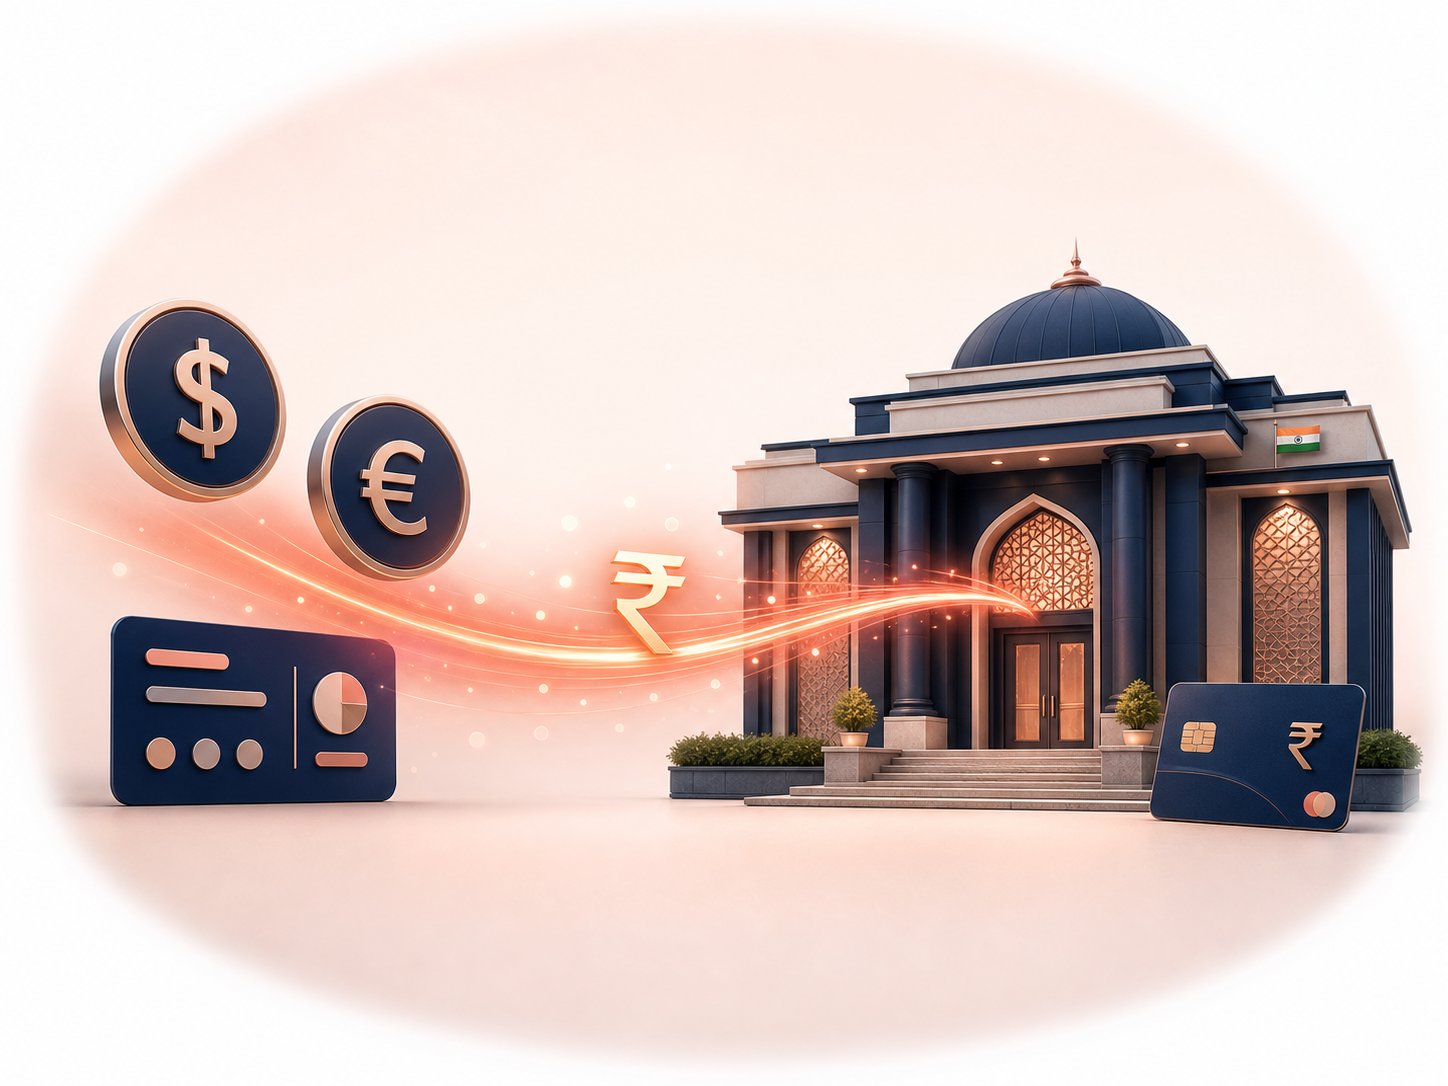
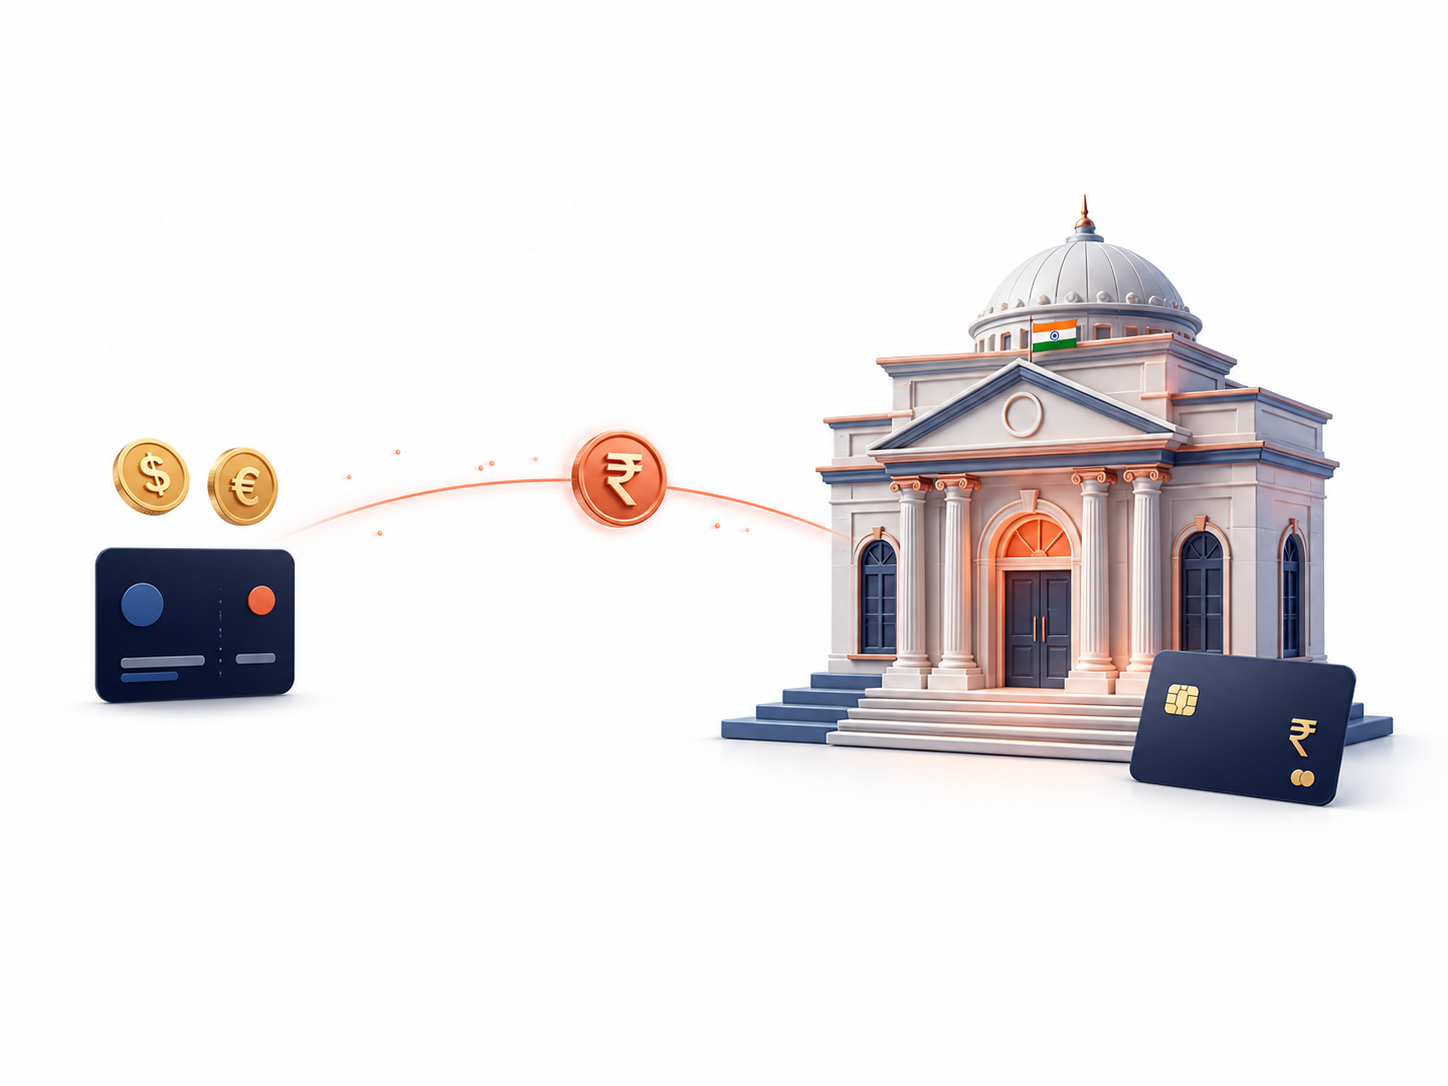
Landings hero: новые картинки на чистом белом фоне (elegant/light стилизация) + убрал маску — края нет совсем

diff --git a/usd-account-non-us-residents/index.html b/usd-account-non-us-residents/index.html
@@ -45,7 +45,7 @@
   <div class="nav-scrim" data-nav-scrim aria-hidden="true"></div>
   <main id="main-content">
 <svg class="svg-sprite" aria-hidden="true" focusable="false"><symbol id="lp-flag-us" viewBox="0 0 60 40"><rect width="60" height="40" rx="4" fill="#fff"/><path fill="#d92d3f" d="M0 0h60v4H0zm0 8h60v4H0zm0 8h60v4H0zm0 8h60v4H0zm0 8h60v4H0z"/><path fill="#22447b" d="M0 0h27v22H0z"/></symbol></svg>
-<section class="hero lp-hero" id="top"><div class="hero-orb hero-orb-one" aria-hidden="true"></div><div class="hero-orb hero-orb-two" aria-hidden="true"></div><div class="container hero-grid"><div class="hero-copy"><p class="eyebrow hero-eyebrow"><span aria-hidden="true"></span> Personal USD payment details</p><h1>Get personal USD payment details without living in the US</h1><p class="hero-lead">Receive eligible salary and personal transfers through ACH or Fedwire using USD payment details issued in your verified name.</p><div class="hero-actions"><a class="button button-primary" href="/register.html" data-register data-cta="primary" data-pos="hero">Get account details <span aria-hidden="true">&rarr;</span></a><a class="button button-secondary" href="#how-it-works" data-cta="secondary"><span class="play-icon" aria-hidden="true">&#9654;</span> See how it works</a></div><ul class="lp-chips" aria-label="Key benefits"><li><span aria-hidden="true">&#10003;</span> ACH &amp; Fedwire</li><li><span aria-hidden="true">&#10003;</span> Details in your name</li><li><span aria-hidden="true">&#10003;</span> No opening or monthly fee</li></ul></div><div class="hero-visual lp-hero-visual"><img src="/assets/hero-lp-usd.png?v=1" class="lp-hero-img" alt="Personal USD payment details funded by incoming payments from around the world" width="1448" height="1086" fetchpriority="high" decoding="async"></div></div></section>
+<section class="hero lp-hero" id="top"><div class="hero-orb hero-orb-one" aria-hidden="true"></div><div class="hero-orb hero-orb-two" aria-hidden="true"></div><div class="container hero-grid"><div class="hero-copy"><p class="eyebrow hero-eyebrow"><span aria-hidden="true"></span> Personal USD payment details</p><h1>Get personal USD payment details without living in the US</h1><p class="hero-lead">Receive eligible salary and personal transfers through ACH or Fedwire using USD payment details issued in your verified name.</p><div class="hero-actions"><a class="button button-primary" href="/register.html" data-register data-cta="primary" data-pos="hero">Get account details <span aria-hidden="true">&rarr;</span></a><a class="button button-secondary" href="#how-it-works" data-cta="secondary"><span class="play-icon" aria-hidden="true">&#9654;</span> See how it works</a></div><ul class="lp-chips" aria-label="Key benefits"><li><span aria-hidden="true">&#10003;</span> ACH &amp; Fedwire</li><li><span aria-hidden="true">&#10003;</span> Details in your name</li><li><span aria-hidden="true">&#10003;</span> No opening or monthly fee</li></ul></div><div class="hero-visual lp-hero-visual"><img src="/assets/hero-lp-usd.png?v=2" class="lp-hero-img" alt="Personal USD payment details funded by incoming payments from around the world" width="1448" height="1086" fetchpriority="high" decoding="async"></div></div></section>
 
 <section class="section section-soft"><div class="container"><div class="section-heading" data-reveal><p class="eyebrow">Built for getting paid</p><h2>USD details built for getting paid abroad</h2></div><div class="lp-benefit-grid"><article data-reveal style="--delay: 0ms"><span class="lp-b-ic" aria-hidden="true"><svg viewBox="0 0 24 24" aria-hidden="true"><path d="M12 3v11m0 0 4-4m-4 4-4-4M5 19h14"/></svg></span><span class="lp-b-num" aria-hidden="true">01</span><h3>Receive through ACH or Fedwire</h3><p>Use the USD details shown in your PayerPay account for eligible incoming payments.</p></article><article data-reveal style="--delay: 70ms"><span class="lp-b-ic" aria-hidden="true"><svg viewBox="0 0 24 24" aria-hidden="true"><rect x="3" y="5" width="18" height="14" rx="2.5"/><circle cx="8.5" cy="11" r="2"/><path d="M5.8 16c.5-1.3 1.5-2 2.7-2s2.2.7 2.7 2M14 10.5h4M14 13.5h3"/></svg></span><span class="lp-b-num" aria-hidden="true">02</span><h3>Details issued in your name</h3><p>Your verified account holder name is included with the payment details provided after approval.</p></article><article data-reveal style="--delay: 140ms"><span class="lp-b-ic" aria-hidden="true"><svg viewBox="0 0 24 24" aria-hidden="true"><path d="M4 4h6.6a2 2 0 0 1 1.4.6l7.4 7.4a2 2 0 0 1 0 2.8l-4.6 4.6a2 2 0 0 1-2.8 0L4.6 12A2 2 0 0 1 4 10.6V4Z"/><circle cx="8.6" cy="8.6" r="1.3"/></svg></span><span class="lp-b-num" aria-hidden="true">03</span><h3>No opening or monthly fee</h3><p>There is no opening or monthly maintenance fee for personal USD payment details.</p></article><article data-reveal style="--delay: 210ms"><span class="lp-b-ic" aria-hidden="true"><svg viewBox="0 0 24 24" aria-hidden="true"><path d="m12 3 9 5-9 5-9-5 9-5Zm-9 9 9 5 9-5m-18 4 9 5 9-5"/></svg></span><span class="lp-b-num" aria-hidden="true">04</span><h3>Manage onward payments from one account</h3><p>After funds arrive, use your PayerPay balance for supported transfers and currency exchange.</p></article></div></div></section>
 

diff --git a/send-money-to-philippines/index.html b/send-money-to-philippines/index.html
@@ -45,7 +45,7 @@
   <div class="nav-scrim" data-nav-scrim aria-hidden="true"></div>
   <main id="main-content">
 
-<section class="hero lp-hero" id="top"><div class="hero-orb hero-orb-one" aria-hidden="true"></div><div class="hero-orb hero-orb-two" aria-hidden="true"></div><div class="container hero-grid"><div class="hero-copy"><p class="eyebrow hero-eyebrow"><span aria-hidden="true"></span> Philippines &middot; PHP</p><h1>Send money to the Philippines via GCash or local bank transfer</h1><p class="hero-lead">Receive eligible payments in USD or EUR, convert to PHP, and send funds to a supported GCash wallet or local bank account in the Philippines.</p><div class="hero-actions"><a class="button button-primary" href="/register.html" data-register data-cta="primary" data-pos="hero">Get account details <span aria-hidden="true">&rarr;</span></a><a class="button button-secondary" href="#how-it-works" data-cta="secondary"><span class="play-icon" aria-hidden="true">&#9654;</span> See how it works</a></div><ul class="lp-chips" aria-label="Key benefits"><li><span aria-hidden="true">&#10003;</span> USD or EUR funding</li><li><span aria-hidden="true">&#10003;</span> GCash or local bank transfer</li><li><span aria-hidden="true">&#10003;</span> Rate &amp; fee shown before confirmation</li></ul></div><div class="hero-visual lp-hero-visual"><img src="/assets/hero-lp-philippines.png?v=1" class="lp-hero-img" alt="US dollars and euros converted to Philippine pesos and sent to a mobile wallet or a local bank card" width="1448" height="1086" fetchpriority="high" decoding="async"></div></div></section>
+<section class="hero lp-hero" id="top"><div class="hero-orb hero-orb-one" aria-hidden="true"></div><div class="hero-orb hero-orb-two" aria-hidden="true"></div><div class="container hero-grid"><div class="hero-copy"><p class="eyebrow hero-eyebrow"><span aria-hidden="true"></span> Philippines &middot; PHP</p><h1>Send money to the Philippines via GCash or local bank transfer</h1><p class="hero-lead">Receive eligible payments in USD or EUR, convert to PHP, and send funds to a supported GCash wallet or local bank account in the Philippines.</p><div class="hero-actions"><a class="button button-primary" href="/register.html" data-register data-cta="primary" data-pos="hero">Get account details <span aria-hidden="true">&rarr;</span></a><a class="button button-secondary" href="#how-it-works" data-cta="secondary"><span class="play-icon" aria-hidden="true">&#9654;</span> See how it works</a></div><ul class="lp-chips" aria-label="Key benefits"><li><span aria-hidden="true">&#10003;</span> USD or EUR funding</li><li><span aria-hidden="true">&#10003;</span> GCash or local bank transfer</li><li><span aria-hidden="true">&#10003;</span> Rate &amp; fee shown before confirmation</li></ul></div><div class="hero-visual lp-hero-visual"><img src="/assets/hero-lp-philippines.png?v=2" class="lp-hero-img" alt="US dollars and euros converted to Philippine pesos and sent to a mobile wallet or a local bank card" width="1448" height="1086" fetchpriority="high" decoding="async"></div></div></section>
 
 <section class="section section-soft"><div class="container"><div class="section-heading" data-reveal><p class="eyebrow">How it flows</p><h2>From your income abroad to the Philippines</h2></div><div class="lp-benefit-grid"><article data-reveal style="--delay: 0ms"><span class="lp-b-ic" aria-hidden="true"><svg viewBox="0 0 24 24" aria-hidden="true"><path d="M12 3v11m0 0 4-4m-4 4-4-4M5 19h14"/></svg></span><span class="lp-b-num" aria-hidden="true">01</span><h3>Get paid in USD or EUR</h3><p>Use personal USD or EUR payment details, subject to eligibility and verification.</p></article><article data-reveal style="--delay: 70ms"><span class="lp-b-ic" aria-hidden="true"><svg viewBox="0 0 24 24" aria-hidden="true"><rect x="3" y="5" width="18" height="14" rx="2.5"/><circle cx="8.5" cy="11" r="2"/><path d="M5.8 16c.5-1.3 1.5-2 2.7-2s2.2.7 2.7 2M14 10.5h4M14 13.5h3"/></svg></span><span class="lp-b-num" aria-hidden="true">02</span><h3>Convert to PHP</h3><p>Choose the amount and review the exchange rate and applicable fee before confirmation.</p></article><article data-reveal style="--delay: 140ms"><span class="lp-b-ic" aria-hidden="true"><svg viewBox="0 0 24 24" aria-hidden="true"><path d="M4 4h6.6a2 2 0 0 1 1.4.6l7.4 7.4a2 2 0 0 1 0 2.8l-4.6 4.6a2 2 0 0 1-2.8 0L4.6 12A2 2 0 0 1 4 10.6V4Z"/><circle cx="8.6" cy="8.6" r="1.3"/></svg></span><span class="lp-b-num" aria-hidden="true">03</span><h3>Choose a familiar local payout method</h3><p>Send PHP to a supported GCash wallet or local bank account.</p></article><article data-reveal style="--delay: 210ms"><span class="lp-b-ic" aria-hidden="true"><svg viewBox="0 0 24 24" aria-hidden="true"><path d="m12 3 9 5-9 5-9-5 9-5Zm-9 9 9 5 9-5m-18 4 9 5 9-5"/></svg></span><span class="lp-b-num" aria-hidden="true">04</span><h3>Your recipient does not need PayerPay</h3><p>The recipient can receive a supported local payout without registering for a PayerPay account.</p></article></div></div></section>
 

diff --git a/send-money-to-india/index.html b/send-money-to-india/index.html
@@ -45,7 +45,7 @@
   <div class="nav-scrim" data-nav-scrim aria-hidden="true"></div>
   <main id="main-content">
 
-<section class="hero lp-hero" id="top"><div class="hero-orb hero-orb-one" aria-hidden="true"></div><div class="hero-orb hero-orb-two" aria-hidden="true"></div><div class="container hero-grid"><div class="hero-copy"><p class="eyebrow hero-eyebrow"><span aria-hidden="true"></span> India &middot; INR</p><h1>Send money to India via local bank transfer</h1><p class="hero-lead">Receive eligible payments in USD or EUR, convert to INR, and send funds directly to a recipient's bank account in India.</p><div class="hero-actions"><a class="button button-primary" href="/register.html" data-register data-cta="primary" data-pos="hero">Get account details <span aria-hidden="true">&rarr;</span></a><a class="button button-secondary" href="#how-it-works" data-cta="secondary"><span class="play-icon" aria-hidden="true">&#9654;</span> See how it works</a></div><ul class="lp-chips" aria-label="Key benefits"><li><span aria-hidden="true">&#10003;</span> USD or EUR funding</li><li><span aria-hidden="true">&#10003;</span> INR local bank transfer</li><li><span aria-hidden="true">&#10003;</span> Rate &amp; fee shown before confirmation</li></ul></div><div class="hero-visual lp-hero-visual"><img src="/assets/hero-lp-india.png?v=1" class="lp-hero-img" alt="US dollars and euros converted to Indian rupees and sent to a local bank account in India" width="1448" height="1086" fetchpriority="high" decoding="async"></div></div></section>
+<section class="hero lp-hero" id="top"><div class="hero-orb hero-orb-one" aria-hidden="true"></div><div class="hero-orb hero-orb-two" aria-hidden="true"></div><div class="container hero-grid"><div class="hero-copy"><p class="eyebrow hero-eyebrow"><span aria-hidden="true"></span> India &middot; INR</p><h1>Send money to India via local bank transfer</h1><p class="hero-lead">Receive eligible payments in USD or EUR, convert to INR, and send funds directly to a recipient's bank account in India.</p><div class="hero-actions"><a class="button button-primary" href="/register.html" data-register data-cta="primary" data-pos="hero">Get account details <span aria-hidden="true">&rarr;</span></a><a class="button button-secondary" href="#how-it-works" data-cta="secondary"><span class="play-icon" aria-hidden="true">&#9654;</span> See how it works</a></div><ul class="lp-chips" aria-label="Key benefits"><li><span aria-hidden="true">&#10003;</span> USD or EUR funding</li><li><span aria-hidden="true">&#10003;</span> INR local bank transfer</li><li><span aria-hidden="true">&#10003;</span> Rate &amp; fee shown before confirmation</li></ul></div><div class="hero-visual lp-hero-visual"><img src="/assets/hero-lp-india.png?v=2" class="lp-hero-img" alt="US dollars and euros converted to Indian rupees and sent to a local bank account in India" width="1448" height="1086" fetchpriority="high" decoding="async"></div></div></section>
 
 <section class="section section-soft"><div class="container"><div class="section-heading" data-reveal><p class="eyebrow">How it flows</p><h2>From your income abroad to a bank account in India</h2></div><div class="lp-benefit-grid"><article data-reveal style="--delay: 0ms"><span class="lp-b-ic" aria-hidden="true"><svg viewBox="0 0 24 24" aria-hidden="true"><path d="M12 3v11m0 0 4-4m-4 4-4-4M5 19h14"/></svg></span><span class="lp-b-num" aria-hidden="true">01</span><h3>Get paid in USD or EUR</h3><p>Use personal USD or EUR payment details, subject to eligibility and verification.</p></article><article data-reveal style="--delay: 70ms"><span class="lp-b-ic" aria-hidden="true"><svg viewBox="0 0 24 24" aria-hidden="true"><rect x="3" y="5" width="18" height="14" rx="2.5"/><circle cx="8.5" cy="11" r="2"/><path d="M5.8 16c.5-1.3 1.5-2 2.7-2s2.2.7 2.7 2M14 10.5h4M14 13.5h3"/></svg></span><span class="lp-b-num" aria-hidden="true">02</span><h3>Convert to INR</h3><p>Choose the amount and review the exchange rate and applicable fee before confirmation.</p></article><article data-reveal style="--delay: 140ms"><span class="lp-b-ic" aria-hidden="true"><svg viewBox="0 0 24 24" aria-hidden="true"><path d="M4 4h6.6a2 2 0 0 1 1.4.6l7.4 7.4a2 2 0 0 1 0 2.8l-4.6 4.6a2 2 0 0 1-2.8 0L4.6 12A2 2 0 0 1 4 10.6V4Z"/><circle cx="8.6" cy="8.6" r="1.3"/></svg></span><span class="lp-b-num" aria-hidden="true">03</span><h3>Send through a local bank transfer</h3><p>Send INR to a supported recipient bank account in India.</p></article><article data-reveal style="--delay: 210ms"><span class="lp-b-ic" aria-hidden="true"><svg viewBox="0 0 24 24" aria-hidden="true"><path d="m12 3 9 5-9 5-9-5 9-5Zm-9 9 9 5 9-5m-18 4 9 5 9-5"/></svg></span><span class="lp-b-num" aria-hidden="true">04</span><h3>Your recipient does not need PayerPay</h3><p>The recipient receives funds through the supported local banking route and does not need to register with PayerPay.</p></article></div></div></section>
 

diff --git a/landing.css b/landing.css
@@ -8,7 +8,7 @@
 .lp-chips li { display: inline-flex; align-items: center; gap: 7px; padding: 8px 14px; border: 1px solid var(--line); border-radius: 999px; background: #fff; font-size: 13px; font-weight: 700; color: var(--navy); box-shadow: 0 6px 16px rgba(15,27,51,.05); }
 .lp-chips li span { color: var(--coral); font-weight: 900; }
 .lp-hero-visual { display: flex; align-items: center; justify-content: center; }
-.lp-hero-img { display: block; width: 100%; height: auto; -webkit-mask-image: radial-gradient(ellipse 98% 96% at 50% 50%, #000 74%, rgba(0,0,0,.55) 89%, transparent 100%); mask-image: radial-gradient(ellipse 98% 96% at 50% 50%, #000 74%, rgba(0,0,0,.55) 89%, transparent 100%); }
+.lp-hero-img { display: block; width: 100%; height: auto; }
 
 /* UI cards */
 .lp-card { width: 100%; max-width: 420px; background: #fff; border: 1px solid var(--line); border-radius: 22px; padding: 24px 26px; box-shadow: 0 30px 70px rgba(15,27,51,.12); }

diff --git a/build_landings.py b/build_landings.py
@@ -270,7 +270,7 @@ USD = {
 
 def render_usd(d):
     b = FLAG_SPRITE
-    b += hero(d, hero_image("/assets/hero-lp-usd.png?v=1", "Personal USD payment details funded by incoming payments from around the world"))
+    b += hero(d, hero_image("/assets/hero-lp-usd.png?v=2", "Personal USD payment details funded by incoming payments from around the world"))
     b += '<section class="section section-soft"><div class="container">'
     b += section_head("Built for getting paid", "USD details built for getting paid abroad")
     b += benefits([
@@ -379,7 +379,7 @@ INDIA = {
   "heroCopy": "Receive eligible payments in USD or EUR, convert to INR, and send funds directly to a recipient's bank account in India.",
   "trustChips": ["USD or EUR funding", "INR local bank transfer", "Rate &amp; fee shown before confirmation"],
   "flowNodes": [("USD / EUR", "You receive"), ("PayerPay balance", "Convert"), ("INR", "Local transfer"), ("Local bank account in India", "Recipient")],
-  "heroImg": "/assets/hero-lp-india.png?v=1",
+  "heroImg": "/assets/hero-lp-india.png?v=2",
   "heroAlt": "US dollars and euros converted to Indian rupees and sent to a local bank account in India",
   "benefitsH2": "From your income abroad to a bank account in India",
   "benefits": [
@@ -429,7 +429,7 @@ PHIL = {
   "heroCopy": "Receive eligible payments in USD or EUR, convert to PHP, and send funds to a supported GCash wallet or local bank account in the Philippines.",
   "trustChips": ["USD or EUR funding", "GCash or local bank transfer", "Rate &amp; fee shown before confirmation"],
   "flowNodes": [("USD / EUR", "You receive"), ("PayerPay balance", "Convert"), ("PHP", "Local payout"), ("GCash / Local bank account", "Recipient")],
-  "heroImg": "/assets/hero-lp-philippines.png?v=1",
+  "heroImg": "/assets/hero-lp-philippines.png?v=2",
   "heroAlt": "US dollars and euros converted to Philippine pesos and sent to a mobile wallet or a local bank card",
   "benefitsH2": "From your income abroad to the Philippines",
   "benefits": [
